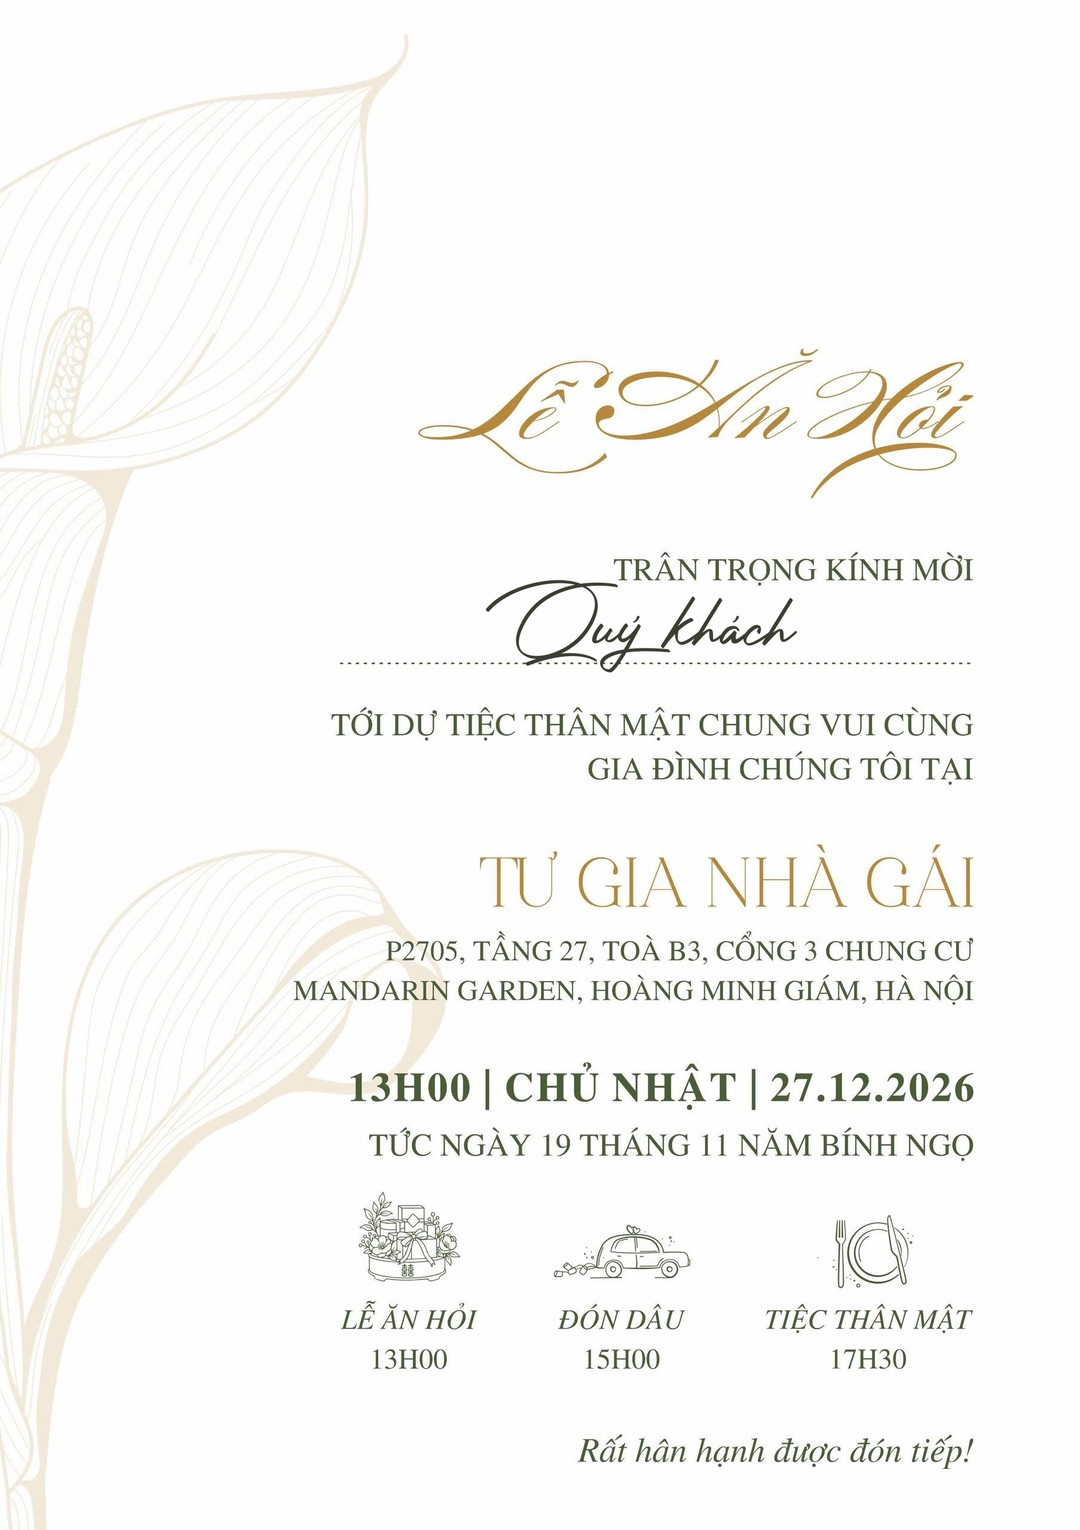
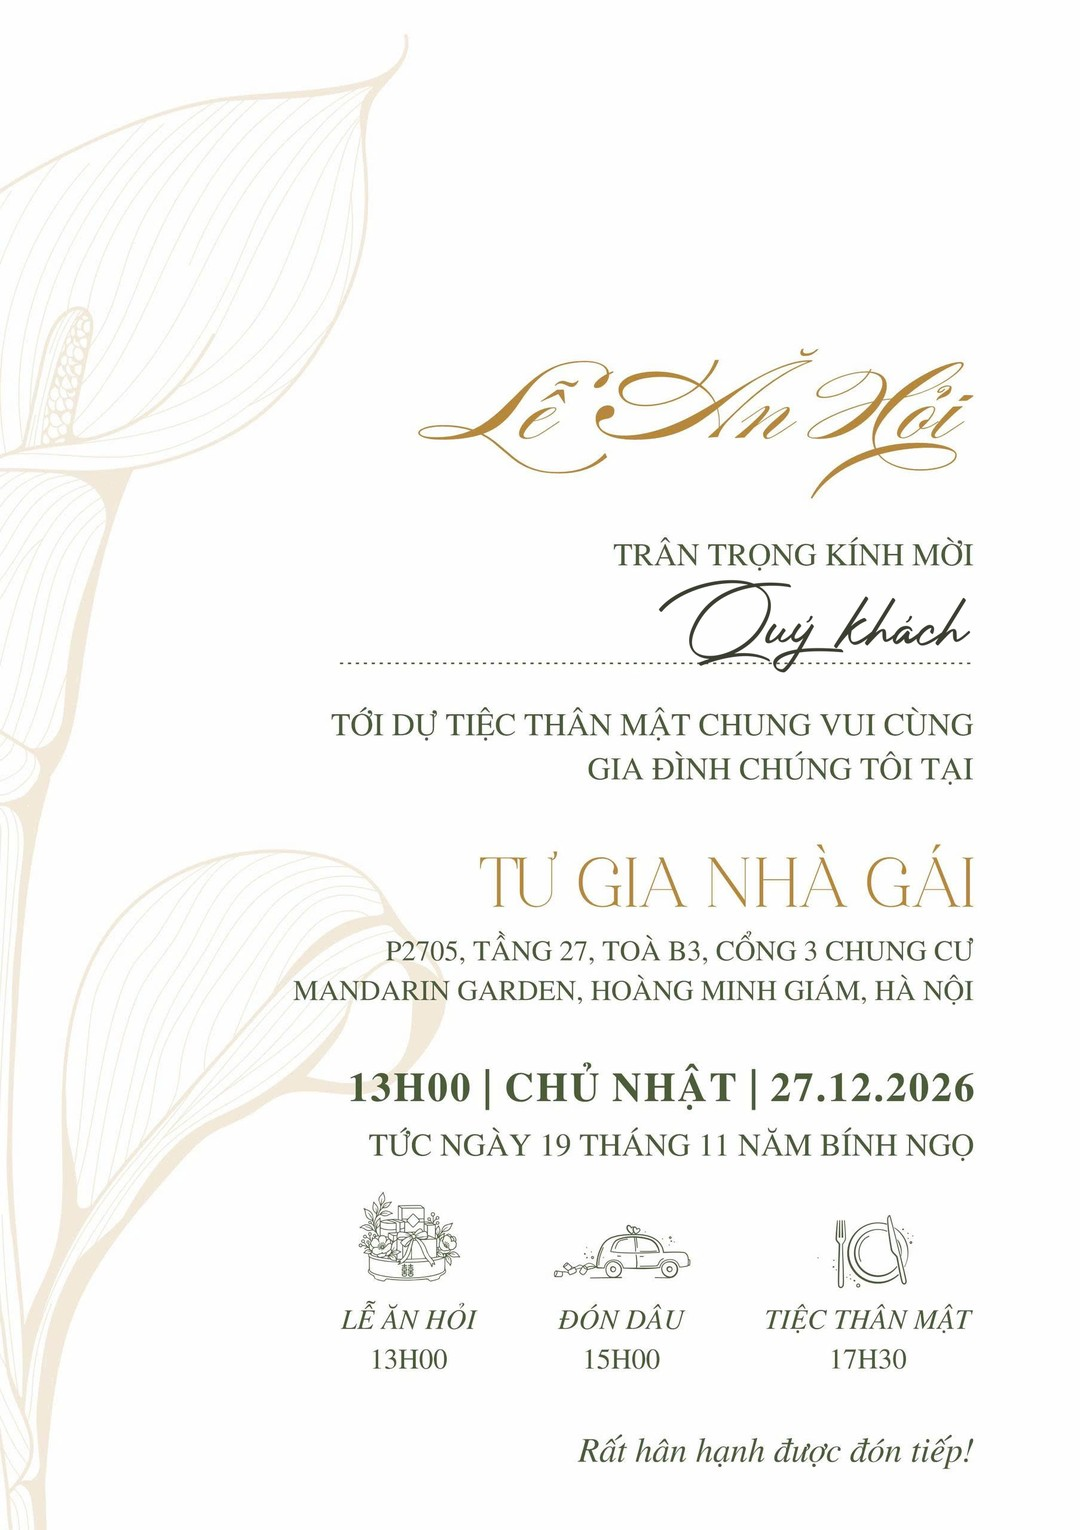
Thiệp ăn hỏi: căn phải chữ Quý khách sát lề phải, đẩy dòng Trân trọng kính mời lên 25px cho khỏi chạm

Changed region(s): [[0.4583, 0.3379, 0.9167, 0.4608]]

diff --git a/cong-cu/tao_thiep_phu.py b/cong-cu/tao_thiep_phu.py
@@ -64,10 +64,25 @@ if not PHONG_CHU_KY.exists():
 an_hoi = Image.open(GOC / "nguon" / "an-hoi.jpeg").convert("RGB")
 K = 3
 f = ImageFont.truetype(str(PHONG_CHU_KY), CO_CHU * K)
-dai = f.getlength("Quy khách") / K
-x = (DONG_CHAM[0] + DONG_CHAM[1]) / 2 - dai / 2                 # đặt giữa dòng chấm
-lop = lop_quy_khach(f, an_hoi.width * K, an_hoi.height * K, int(x * K), DAY * K)
+# Căn phải: mép phải nét chữ thẳng với đầu cuối dòng chấm (cũng là lề phải của khối chữ trên thiệp)
+thu = np.asarray(lop_quy_khach(f, an_hoi.width * K, an_hoi.height * K, 0, DAY * K))
+mep_phai = np.flatnonzero(thu.max(axis=0) > 40).max()
+x = DONG_CHAM[1] * K - mep_phai
+lop = lop_quy_khach(f, an_hoi.width * K, an_hoi.height * K, int(x), DAY * K)
 lop = lop.resize(an_hoi.size, Image.LANCZOS)
+
+# Căn phải thì chữ Q nằm ngay dưới chữ "TRỌNG": đẩy dòng "TRÂN TRỌNG KÍNH MỜI" lên cho chữ không chạm dấu nặng
+# (phía trên còn rộng, cách chữ "Lễ Ăn Hỏi" khoảng 90 điểm ảnh)
+day_tran = 979                               # hàng thấp nhất của dòng TRÂN TRỌNG KÍNH MỜI (dấu nặng)
+dinh_chu = np.flatnonzero(np.asarray(lop).max(axis=1) > 40).min()
+DAY_LEN = max(0, day_tran + 16 - dinh_chu)   # chừa khe 16 điểm ảnh
+if DAY_LEN:
+    VUNG = (1000, 915, 1650, day_tran + 4)    # vùng dòng TRÂN TRỌNG KÍNH MỜI, nền trắng
+    dong = an_hoi.crop(VUNG)
+    nen = tuple(int(v) for v in np.median(np.asarray(dong).reshape(-1, 3), axis=0))
+    an_hoi.paste(Image.new("RGB", dong.size, nen), VUNG[:2])
+    an_hoi.paste(dong, (VUNG[0], VUNG[1] - DAY_LEN))
+print("Đẩy dòng TRÂN TRỌNG KÍNH MỜI lên", DAY_LEN, "điểm ảnh")
 an_hoi = Image.composite(Image.new("RGB", an_hoi.size, MAU_CHU), an_hoi, lop)
 thu_nho(an_hoi).save(ra / "an-hoi.jpg", quality=90, optimize=True)
 print("Đã ghi images/thiep/an-hoi.jpg")
